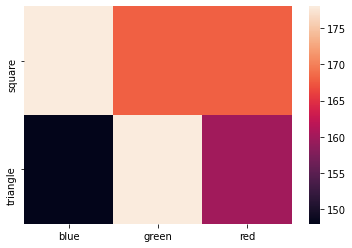
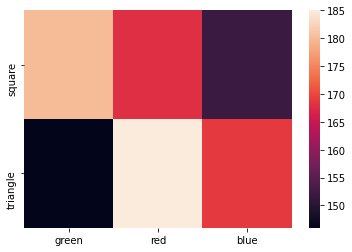
fix random seed in tutorial.ipynb so we no generate new docs images everytime it's run

diff --git a/docs/tutorial.rst b/docs/tutorial.rst
@@ -39,12 +39,13 @@ The data we create out of thin air..
 
     import random
     
-    def shape_generator(count=1000):
+    def shape_generator(count=1000, seed=23):
+        rnd = random.Random(seed)
         for i in range(count):
             yield {
-                "shape": random.choice(("triangle", "square")),
-                "color": random.choice(("red", "green", "blue")),
-                "area": random.gauss(5, 1.3),
+                "shape": rnd.choice(("triangle", "square")),
+                "color": rnd.choice(("red", "green", "blue")),
+                "area": rnd.gauss(5, 1.3),
             }
 
 Now create our exporter and export a couple of documents. It uses the
@@ -127,7 +128,7 @@ Our request to elasticsearch would look like this right now:
 
 .. parsed-literal::
 
-    <elastipy.search_print.SearchPrintWrapper at 0x7fd868f3edd8>
+    <elastipy.search_print.SearchPrintWrapper at 0x7f96147c5c18>
 
 
 
@@ -170,7 +171,7 @@ More queries can be added, which defaults to an **AND** combination:
 
 .. parsed-literal::
 
-    <elastipy.search_print.SearchPrintWrapper at 0x7fd7eae472e8>
+    <elastipy.search_print.SearchPrintWrapper at 0x7f9594661358>
 
 
 
@@ -242,7 +243,7 @@ query itself or by applying the ``|`` operator to the query classes in
 
 .. parsed-literal::
 
-    <elastipy.search_print.SearchPrintWrapper at 0x7fd7eae478d0>
+    <elastipy.search_print.SearchPrintWrapper at 0x7f9594661940>
 
 
 
@@ -266,40 +267,40 @@ Better execute the search now before the body get's too complicated:
         "failed": 0
       },
       "hits": {
-        "total": 177,
-        "max_score": 2.114218,
+        "total": 166,
+        "max_score": 2.1203249,
         "hits": [
           {
             "_index": "elastipy-example-shapes",
             "_type": "_doc",
-            "_id": "mH7mEncBeebHNMb6HbCf",
-            "_score": 2.114218,
+            "_id": "Cn7oEncBeebHNMb6vbRf",
+            "_score": 2.1203249,
             "_source": {
               "shape": "square",
-              "color": "red",
-              "area": 8.640626950013564
+              "color": "green",
+              "area": 7.263731074718455
             }
           },
           {
             "_index": "elastipy-example-shapes",
             "_type": "_doc",
-            "_id": "hX7mEncBeebHNMb6HbGf",
-            "_score": 2.114218,
+            "_id": "F37oEncBeebHNMb6vbRf",
+            "_score": 2.1203249,
             "_source": {
-              "shape": "square",
-              "color": "red",
-              "area": 8.038291694399371
+              "shape": "triangle",
+              "color": "green",
+              "area": 6.012755425383653
             }
           },
           {
             "_index": "elastipy-example-shapes",
             "_type": "_doc",
-            "_id": "y37mEncBeebHNMb6HbPM",
-            "_score": 2.114218,
+            "_id": "Gn7oEncBeebHNMb6vbRf",
+            "_score": 2.1203249,
             "_source": {
               "shape": "square",
-              "color": "red",
-              "area": 8.922134320375719
+              "color": "green",
+              "area": 5.783465577671204
             }
           }
         ]
@@ -319,9 +320,9 @@ convenience properties.
 
 .. parsed-literal::
 
-    [{'shape': 'square', 'color': 'red', 'area': 8.640626950013564},
-     {'shape': 'square', 'color': 'red', 'area': 8.038291694399371},
-     {'shape': 'square', 'color': 'red', 'area': 8.922134320375719}]
+    [{'shape': 'square', 'color': 'green', 'area': 7.263731074718455},
+     {'shape': 'triangle', 'color': 'green', 'area': 6.012755425383653},
+     {'shape': 'square', 'color': 'green', 'area': 5.783465577671204}]
 
 
 
@@ -355,26 +356,26 @@ allows for short and powerful oneliners:
 
 .. parsed-literal::
 
-    [{'shape': 'square', 'color': 'red', 'area': 8.922134320375719},
-     {'shape': 'triangle', 'color': 'green', 'area': 8.896385335940034},
-     {'shape': 'square', 'color': 'green', 'area': 8.888874416256126},
-     {'shape': 'square', 'color': 'red', 'area': 8.640626950013564},
-     {'shape': 'triangle', 'color': 'green', 'area': 8.536276584409386},
-     {'shape': 'triangle', 'color': 'green', 'area': 8.49361222991555},
-     {'shape': 'square', 'color': 'green', 'area': 8.321892812120968},
-     {'shape': 'square', 'color': 'blue', 'area': 8.265855679382522},
-     {'shape': 'triangle', 'color': 'green', 'area': 8.095071515925572},
-     {'shape': 'square', 'color': 'red', 'area': 8.038291694399371},
-     {'shape': 'triangle', 'color': 'blue', 'area': 8.022825807753907},
-     {'shape': 'square', 'color': 'blue', 'area': 8.000227241540383},
-     {'shape': 'square', 'color': 'blue', 'area': 7.968911361906706},
-     {'shape': 'triangle', 'color': 'blue', 'area': 7.891008752826181},
-     {'shape': 'square', 'color': 'green', 'area': 7.858878708447717},
-     {'shape': 'triangle', 'color': 'green', 'area': 7.8271173381994155},
-     {'shape': 'square', 'color': 'green', 'area': 7.735793561616248},
-     {'shape': 'square', 'color': 'red', 'area': 7.732347982936842},
-     {'shape': 'square', 'color': 'green', 'area': 7.71179285932556},
-     {'shape': 'triangle', 'color': 'red', 'area': 7.705692157784982}]
+    [{'shape': 'triangle', 'color': 'blue', 'area': 10.429612563121568},
+     {'shape': 'triangle', 'color': 'blue', 'area': 8.631278664614928},
+     {'shape': 'triangle', 'color': 'green', 'area': 8.383293158814908},
+     {'shape': 'square', 'color': 'red', 'area': 8.236889913615816},
+     {'shape': 'triangle', 'color': 'red', 'area': 8.157738475146177},
+     {'shape': 'triangle', 'color': 'blue', 'area': 8.149289701139908},
+     {'shape': 'triangle', 'color': 'red', 'area': 8.1241500335766},
+     {'shape': 'square', 'color': 'green', 'area': 8.09185625330105},
+     {'shape': 'triangle', 'color': 'blue', 'area': 8.08735770969464},
+     {'shape': 'square', 'color': 'green', 'area': 7.977278235020664},
+     {'shape': 'triangle', 'color': 'red', 'area': 7.938468252124386},
+     {'shape': 'triangle', 'color': 'red', 'area': 7.886810892882312},
+     {'shape': 'square', 'color': 'red', 'area': 7.884563035795223},
+     {'shape': 'square', 'color': 'blue', 'area': 7.87039265833457},
+     {'shape': 'triangle', 'color': 'red', 'area': 7.8174214918916025},
+     {'shape': 'triangle', 'color': 'red', 'area': 7.707584538303967},
+     {'shape': 'square', 'color': 'red', 'area': 7.704892192610947},
+     {'shape': 'triangle', 'color': 'green', 'area': 7.641915136804204},
+     {'shape': 'triangle', 'color': 'blue', 'area': 7.592409852960503},
+     {'shape': 'square', 'color': 'red', 'area': 7.542068017226418}]
 
 
 
@@ -418,7 +419,7 @@ instance, so there is no copying like with the queries above.
 
 .. parsed-literal::
 
-    <elastipy.search_print.SearchPrintWrapper at 0x7fd7eabe9828>
+    <elastipy.search_print.SearchPrintWrapper at 0x7f95943ae860>
 
 
 
@@ -457,7 +458,7 @@ auto-generated, but can be explicitly stated:
 
 .. parsed-literal::
 
-    <elastipy.search_print.SearchPrintWrapper at 0x7fd7eabe9940>
+    <elastipy.search_print.SearchPrintWrapper at 0x7f95943ae9e8>
 
 
 
@@ -472,7 +473,7 @@ Let's look at the result from elasticsearch:
 .. parsed-literal::
 
     {
-      "took": 0,
+      "took": 1,
       "timed_out": false,
       "_shards": {
         "total": 1,
@@ -492,11 +493,11 @@ Let's look at the result from elasticsearch:
           "buckets": [
             {
               "key": "square",
-              "doc_count": 514
+              "doc_count": 500
             },
             {
               "key": "triangle",
-              "doc_count": 486
+              "doc_count": 500
             }
           ]
         }
@@ -508,7 +509,7 @@ Let's look at the result from elasticsearch:
 
 .. parsed-literal::
 
-    <elastipy.search_print.SearchPrintWrapper at 0x7fd7eabe96a0>
+    <elastipy.search_print.SearchPrintWrapper at 0x7f95943ae438>
 
 
 
@@ -527,7 +528,7 @@ access the values more conveniently:
 
 .. parsed-literal::
 
-    {'square': 514, 'triangle': 486}
+    {'square': 500, 'triangle': 500}
 
 
 
@@ -542,8 +543,8 @@ known from the ``dict`` type:
 
 .. parsed-literal::
 
-    square       514
-    triangle     486
+    square       500
+    triangle     500
 
 
 It also has a ``dict_rows()`` generator which preserves the **names**
@@ -557,8 +558,8 @@ and **keys** of the aggregation:
 
 .. parsed-literal::
 
-    {'shapes': 'square', 'shapes.doc_count': 514}
-    {'shapes': 'triangle', 'shapes.doc_count': 486}
+    {'shapes': 'square', 'shapes.doc_count': 500}
+    {'shapes': 'triangle', 'shapes.doc_count': 500}
 
 
 The ``rows()`` generator flattens the ``dict_rows()`` into a CSV-style
@@ -573,8 +574,8 @@ list:
 .. parsed-literal::
 
     ['shapes', 'shapes.doc_count']
-    ['square', 514]
-    ['triangle', 486]
+    ['square', 500]
+    ['triangle', 500]
 
 
 And we can print a nice table to the command-line:
@@ -586,17 +587,17 @@ And we can print a nice table to the command-line:
 
 .. parsed-literal::
 
-    shapes   │ shapes.doc_count                           
-    ─────────┼────────────────────────────────────────────
-    square   │ 514 ███████████████████████████████████████
-    triangle │ 486 ████████████████████████████████████▉  
+    shapes   │ shapes.doc_count
+    ─────────┼─────────────────
+    square   │ 500             
+    triangle │ 500             
 
 
 
 
 .. parsed-literal::
 
-    <elastipy.aggregation.print_wrapper.PrintWrapper at 0x7fd868f292b0>
+    <elastipy.aggregation.print_wrapper.PrintWrapper at 0x7f96147c5c18>
 
 
 
@@ -647,11 +648,11 @@ built in:
       <tbody>
         <tr>
           <th>square</th>
-          <td>514</td>
+          <td>500</td>
         </tr>
         <tr>
           <th>triangle</th>
-          <td>486</td>
+          <td>500</td>
         </tr>
       </tbody>
     </table>
@@ -721,12 +722,12 @@ Now, what does the ``to_dict`` output look like?
 
 .. parsed-literal::
 
-    {('square', 'blue'): 178,
-     ('square', 'green'): 168,
+    {('square', 'green'): 180,
      ('square', 'red'): 168,
-     ('triangle', 'green'): 178,
-     ('triangle', 'red'): 160,
-     ('triangle', 'blue'): 148}
+     ('square', 'blue'): 152,
+     ('triangle', 'red'): 185,
+     ('triangle', 'blue'): 169,
+     ('triangle', 'green'): 146}
 
 
 
@@ -741,7 +742,7 @@ lot of thinking we can say:
 
 .. parsed-literal::
 
-    There are 160 red triangles in the database!
+    There are 185 red triangles in the database!
 
 
 But where are the metrics gone?
@@ -768,21 +769,21 @@ branch. In this example the branch looks like this:
 
 .. parsed-literal::
 
-    shapes   │ shapes.doc_count    │ colors │ colors.doc_count    │ area                    │ avg-area            
-    ─────────┼─────────────────────┼────────┼─────────────────────┼─────────────────────────┼─────────────────────
-    square   │ 514 ███████████████ │ blue   │ 178 ███████████████ │ 878.022 ██████████████▊ │ 4.933 █████████████▋
-    square   │ 514 ███████████████ │ green  │ 168 ██████████████▎ │ 850.693 ██████████████▍ │ 5.064 █████████████▉
-    square   │ 514 ███████████████ │ red    │ 168 ██████████████▎ │ 852.811 ██████████████▍ │ 5.076 ██████████████
-    triangle │ 486 ██████████████▎ │ green  │ 178 ███████████████ │ 889.475 ███████████████ │ 4.997 █████████████▊
-    triangle │ 486 ██████████████▎ │ red    │ 160 █████████████▋  │ 784.082 █████████████▍  │ 4.901 █████████████▌
-    triangle │ 486 ██████████████▎ │ blue   │ 148 ████████████▋   │ 747.068 ████████████▊   │ 5.048 █████████████▉
+    shapes   │ shapes.doc_count │ colors │ colors.doc_count     │ area                    │ avg-area              
+    ─────────┼──────────────────┼────────┼──────────────────────┼─────────────────────────┼───────────────────────
+    square   │ 500              │ green  │ 180 ███████████████▋ │ 893.291 ██████████████▌ │ 4.963 ███████████████▋
+    square   │ 500              │ red    │ 168 ██████████████▋  │ 801.394 █████████████   │  4.77 ███████████████ 
+    square   │ 500              │ blue   │ 152 █████████████▍   │ 763.321 ████████████▌   │ 5.022 ███████████████▊
+    triangle │ 500              │ red    │ 185 ████████████████ │  925.21 ███████████████ │ 5.001 ███████████████▊
+    triangle │ 500              │ blue   │ 169 ██████████████▋  │ 861.256 ██████████████  │ 5.096 ████████████████
+    triangle │ 500              │ green  │ 146 ████████████▊    │ 738.947 ████████████▎   │ 5.061 ███████████████▉
 
 
 
 
 .. parsed-literal::
 
-    <elastipy.aggregation.print_wrapper.PrintWrapper at 0x7fd7dfe8bc88>
+    <elastipy.aggregation.print_wrapper.PrintWrapper at 0x7f9589728208>
 
 
 
@@ -804,8 +805,8 @@ Now what is this method with the awesome name ``to_matrix``?
 .. parsed-literal::
 
     names  ['shapes', 'colors']
-    keys   [['square', 'triangle'], ['blue', 'green', 'red']]
-    matrix [[178, 168, 168], [148, 178, 160]]
+    keys   [['square', 'triangle'], ['green', 'red', 'blue']]
+    matrix [[180, 168, 152], [146, 185, 169]]
 
 
 It produces a heatmap! At least in two dimensions. In this example we
@@ -841,23 +842,23 @@ dimensions, but if it's one or two, we can also convert it to a
       <thead>
         <tr style="text-align: right;">
           <th></th>
-          <th>blue</th>
           <th>green</th>
           <th>red</th>
+          <th>blue</th>
         </tr>
       </thead>
       <tbody>
         <tr>
           <th>square</th>
-          <td>178</td>
+          <td>180</td>
           <td>168</td>
-          <td>168</td>
+          <td>152</td>
         </tr>
         <tr>
           <th>triangle</th>
-          <td>148</td>
-          <td>178</td>
-          <td>160</td>
+          <td>146</td>
+          <td>185</td>
+          <td>169</td>
         </tr>
       </tbody>
     </table>
